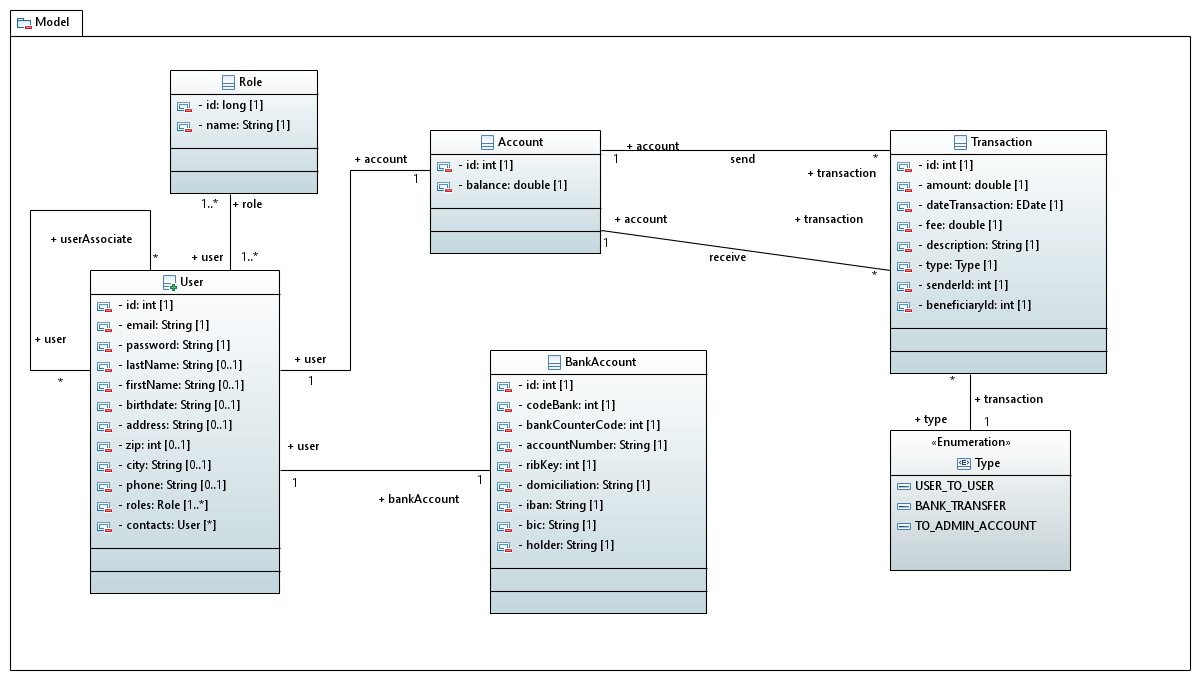
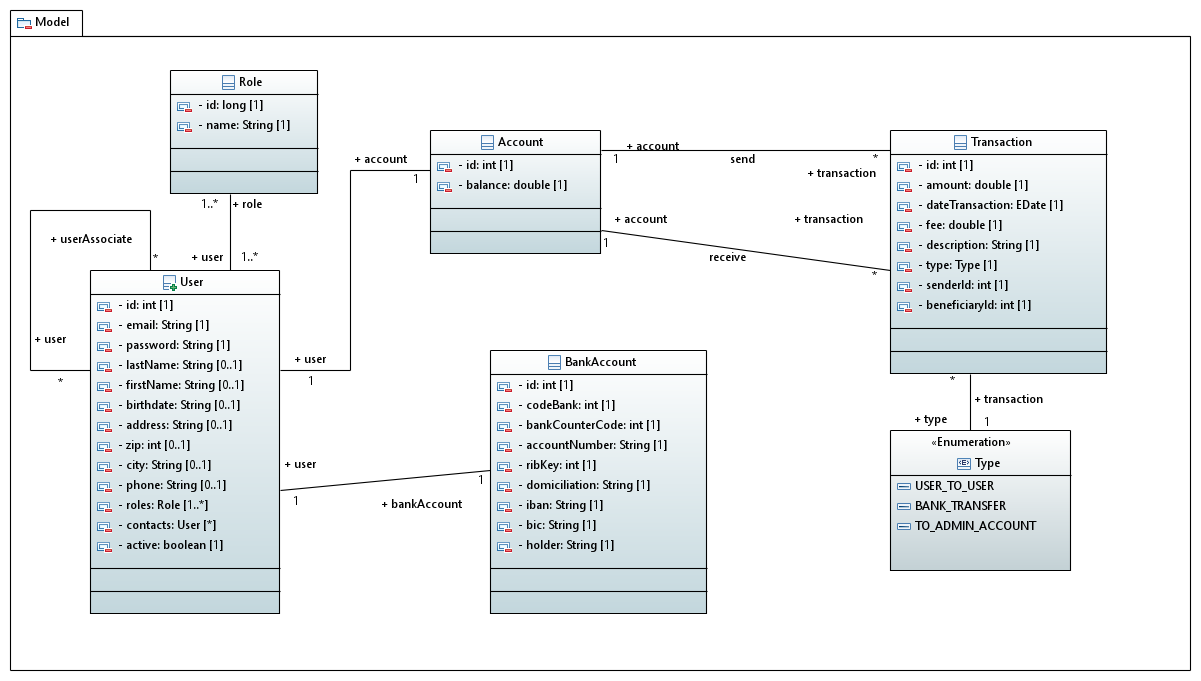
fix active attribute

diff --git a/src/main/resources/templates/suscribe.html b/src/main/resources/templates/suscribe.html
@@ -37,45 +37,56 @@ body {
 							my buddy</button>
 
 						<!-- Registration form -->
-						
-						<form th:action="@{/suscribe}" method="POST" th:object = "${user}">
-						
-						<!-- success message -->
-						<div th:if="${param.successRegistration}" class = "mt-1">
-							<div class="alert alert-info">You've successfully registered to our app! Click to login now link to connect !</div>
-						</div>
-						
-						<!-- success message -->
-						<div th:if="${param.problem}" class = "mt-1">
-							<div class="alert alert-warning">problem during save</div>
-						</div>
-						
-						<!-- error message -->
-						<div th:if="${param.error}" class = "mt-1">
-							<div class="alert alert-warning">Email account already exist !!</div>
-						</div>
-						
+
+						<form th:action="@{/suscribe}" method="POST" th:object="${user}">
+
+							<!-- success message -->
+							<div th:if="${param.successRegistration}" class="mt-1">
+								<div class="alert alert-info">You've successfully
+									registered to our app! Click to login now link to connect !</div>
+							</div>
+
+							<!-- success message -->
+							<div th:if="${param.problem}" class="mt-1">
+								<div class="alert alert-warning">problem during save</div>
+							</div>
+
+							<!-- error message -->
+							<div th:if="${param.error}" class="mt-1">
+								<div class="alert alert-warning">Email account already
+									exist !!</div>
+							</div>
+
+							<!-- error message -->
+							<div th:if="${param.inactive}" class="mt-1">
+								<div class="alert alert-warning">your account has been
+									deactivated at your request, you can contact us if you wish to
+									re-activate it !!</div>
+							</div>
+
 							<!-- User email -->
-							
+
 							<div class="form-group">
 								<label for="Email"></label> <input type="email"
 									class="form-control" id="email" name="email"
-									aria-describedby="emailHelp" placeholder="Email" th:field="*{email}" required autofocus="autofocus"/>
+									aria-describedby="emailHelp" placeholder="Email"
+									th:field="*{email}" required autofocus="autofocus" />
 							</div>
 
 							<!-- User password -->
-							
+
 							<div class="form-group">
 								<label for="password"></label> <input type="password"
 									class="form-control" id="password" name="password"
-									placeholder="Password" th:field="*{password}" required autofocus="autofocus"/>
+									placeholder="Password" th:field="*{password}" required
+									autofocus="autofocus" />
 							</div>
-						
+
 
 							<p></p>
-							
+
 							<!-- Submit btn -->
-	
+
 							<button type="submit" class="btn btn-primary">Register</button>
 							<p>
 								I already have an account ? <a class="link" th:href="@{/login}">Login

diff --git a/src/main/resources/templates/home.html b/src/main/resources/templates/home.html
@@ -93,14 +93,10 @@ body {
 						<div th:if="${param.errorNotEnoughMoney}" class="mt-1">
 							<div class="alert alert-danger">not enough money !</div>
 						</div>
-						<!-- error message -->
-						<div th:if="${param.error}" class="mt-1">
-							<div class="alert alert-danger">error during transfer !</div>
-						</div>
 						<!-- error message ammount = 0 -->
 						<div th:if="${param.errorZero}" class="mt-1">
-							<div class="alert alert-danger">ammount bank transfer = 0
-								!!!</div>
+							<div class="alert alert-danger">ammount bank transfer = 0,
+								you must enter a positive amount !!!</div>
 						</div>
 
 					</div>
@@ -307,11 +303,11 @@ body {
 													type="number" step="any" value="0" id="amount"
 													name="amount">
 
-												<!-- essai variable à envoyer -->
+												<!-- Send value -->
 												<label for="description"></label> <input
 													class="form-control d-none" type="text" value="withdraw"
 													id="description" name="description">
-												<!-- Fin de l'essai -->
+												<!-- End send value -->
 
 											</div>
 											<div class="mr-1">€</div>

diff --git a/src/test/java/com/payMyBuddy/buddy/SuscribeControllerTest.java b/src/test/java/com/payMyBuddy/buddy/SuscribeControllerTest.java
@@ -26,6 +26,7 @@ import org.springframework.test.web.servlet.result.MockMvcResultHandlers;
 import com.payMyBuddy.buddy.configuration.SecurityConfig;
 import com.payMyBuddy.buddy.controller.SuscribeController;
 import com.payMyBuddy.buddy.dto.UserRegistrationDto;
+import com.payMyBuddy.buddy.model.UserBuddy;
 import com.payMyBuddy.buddy.service.RoleServiceI;
 import com.payMyBuddy.buddy.service.UserBuddyServiceI;
 
@@ -59,6 +60,13 @@ class SuscribeControllerTest {
   void testPostNewUser() throws Exception {
     // ARRANGE
     UserRegistrationDto userRegistrationDto = new UserRegistrationDto();
+    
+    UserBuddy user = new UserBuddy();
+    user.setActive(true);
+    user.setEmail("user1@gmail.com");
+    user.setPassword("user");
+
+    when(userBuddyServiceI.findOne(userRegistrationDto.getEmail())).thenReturn(user);
 
     RequestBuilder request = post("/suscribe")
         .param("email", userRegistrationDto.getEmail())
@@ -79,6 +87,13 @@ class SuscribeControllerTest {
     userRegistrationDto.setEmail("user1@gmail.com");
     userRegistrationDto.setPassword("user");
     
+    UserBuddy user = new UserBuddy();
+    user.setActive(true);
+    user.setEmail("user1@gmail.com");
+    user.setPassword("user");
+
+    when(userBuddyServiceI.findOne(userRegistrationDto.getEmail())).thenReturn(user);
+
     when(userBuddyServiceI.existsUserBuddyByEmail(userRegistrationDto.getEmail())).thenReturn(true);
 
     RequestBuilder request = post("/suscribe")

diff --git a/src/test/java/com/payMyBuddy/buddy/UserBuddyServiceTest.java b/src/test/java/com/payMyBuddy/buddy/UserBuddyServiceTest.java
@@ -17,6 +17,7 @@ import org.springframework.boot.test.mock.mockito.MockBean;
 import org.springframework.security.core.userdetails.UserDetailsService;
 import org.springframework.security.crypto.password.PasswordEncoder;
 
+import com.payMyBuddy.buddy.dto.UserDto;
 import com.payMyBuddy.buddy.dto.UserProfileDto;
 import com.payMyBuddy.buddy.dto.UserRegistrationDto;
 import com.payMyBuddy.buddy.model.Account;
@@ -152,6 +153,32 @@ class UserBuddyServiceTest {
     userBuddyServiceImpl.existsUserBuddyByEmail("mail");
     //ASSERT
     verify(userBuddyRepository, times(1)).existsUserBuddyByEmail("mail");
+  }
+  
+  @Test
+  void testUnsuscribe() {
+    //ARRANGE
+    UserDto userDto = new UserDto();
+    userDto.setEmail("email");
+    userDto.setEmailConfirm("email");
+
+    UserBuddy user = new UserBuddy();
+    user.setActive(true);
+    user.setEmail("email");
+    user.setPassword("user");
+    
+    UserBuddy userToSave = new UserBuddy();
+    userToSave.setActive(true);
+    userToSave.setEmail("email");
+    userToSave.setPassword("user");
+    
+    when(userBuddyRepository.findByemail(userDto.getEmail())).thenReturn(user);
+    when(userBuddyRepository.getOne(user.getId())).thenReturn(userToSave);
+    when(userBuddyRepository.save(userToSave)).thenReturn(userToSave);
+    //ACT
+    UserBuddy userSave = userBuddyServiceImpl.unsuscribe(userDto);
+    //ASSERT
+    assertThat(userSave.isActive()).isEqualTo(false);
   }
 
 }

diff --git a/src/main/java/com/payMyBuddy/buddy/controller/HomeController.java b/src/main/java/com/payMyBuddy/buddy/controller/HomeController.java
@@ -88,6 +88,7 @@ public class HomeController {
 
   /**
    * Form method post for transfer, payment or withdraw
+   * 
    * @param transactionDto
    * @return
    */
@@ -100,25 +101,26 @@ public class HomeController {
     UserBuddy user = userBuddyServiceI.findOne(username);
     Account account = accountServiceI.findByUserAccountId(user);
 
-    //Verify amount > 0
+    // Verify amount > 0
     if (transactionDto.getAmount().compareTo(BigDecimal.ZERO) > 0) {
       transactionDto.setSenderId(account);
       String reponse = transactionServiceI.save(transactionDto);
       if (reponse == "success") {
+        log.info("Success payment, home page post transfer");
         return "redirect:/home?successPayment";
       } else if (reponse == "errorNotEnoughMoney") {
+        log.error("error not enough money, home page post transfer");
         return "redirect:/home?errorNotEnoughMoney";
-      } else {
-        return "redirect:/home?errorZero";
       }
-    } else {
-      return "redirect:/home?error";
     }
+    log.error("amount = 0, home page post transfer");
+    return "redirect:/home?errorZero";
 
   }
 
   /**
    * Form method post to add bank account
+   * 
    * @param bankAccountDto
    * @return
    */

diff --git a/src/main/java/com/payMyBuddy/buddy/controller/SuscribeController.java b/src/main/java/com/payMyBuddy/buddy/controller/SuscribeController.java
@@ -8,6 +8,7 @@ import org.springframework.web.bind.annotation.PostMapping;
 import org.springframework.web.bind.annotation.RequestMapping;
 
 import com.payMyBuddy.buddy.dto.UserRegistrationDto;
+import com.payMyBuddy.buddy.model.UserBuddy;
 import com.payMyBuddy.buddy.service.RoleServiceI;
 import com.payMyBuddy.buddy.service.UserBuddyServiceI;
 
@@ -47,7 +48,13 @@ public class SuscribeController {
   public String registerUserAccount(
       @ModelAttribute("user") UserRegistrationDto userRegistrationDto) {
 
-    //Verify if user already exist
+    //Verify if user already exist or account inactive
+    UserBuddy user = userBuddyServiceI.findOne(userRegistrationDto.getEmail());
+    Boolean active = user.isActive();
+    
+    if(!active) {
+      return "redirect:/suscribe?inactive";
+    }
     if (userBuddyServiceI.existsUserBuddyByEmail(userRegistrationDto.getEmail())) {
       return "redirect:/suscribe?error";
     }

diff --git a/src/main/java/com/payMyBuddy/buddy/service/UserBuddyServiceImpl.java b/src/main/java/com/payMyBuddy/buddy/service/UserBuddyServiceImpl.java
@@ -109,21 +109,20 @@ public class UserBuddyServiceImpl implements UserBuddyServiceI {
 
   /**
    * Service for unsuscribe user and set inactive profile
+   * @return 
    */
   @Override
-  public void unsuscribe(UserDto userDto) {
+  public UserBuddy unsuscribe(UserDto userDto) {
     UserBuddy user = new UserBuddy();
     
     user = userBuddyRepository.findByemail(userDto.getEmail());
     UserBuddy userToUpdate = userBuddyRepository.getOne(user.getId());
     // set inactive
     userToUpdate.setActive(false);
-    String email = userToUpdate.getEmail();
     
-    // the user can re suscribe with the same email, but not sure to let this
-    userToUpdate.setEmail("unsuscribe"+email);
     UserBuddy userBuddy =  userBuddyRepository.save(userToUpdate);
     log.debug("user inactive: " + userBuddy);
+    return userBuddy;
   }
 
 }

diff --git a/src/main/java/com/payMyBuddy/buddy/service/UserBuddyServiceI.java b/src/main/java/com/payMyBuddy/buddy/service/UserBuddyServiceI.java
@@ -19,6 +19,6 @@ public interface UserBuddyServiceI {
 
   UserBuddy save(UserProfileDto userDto);
 
-  void unsuscribe(UserDto userDto);
+  UserBuddy unsuscribe(UserDto userDto);
   
 }
